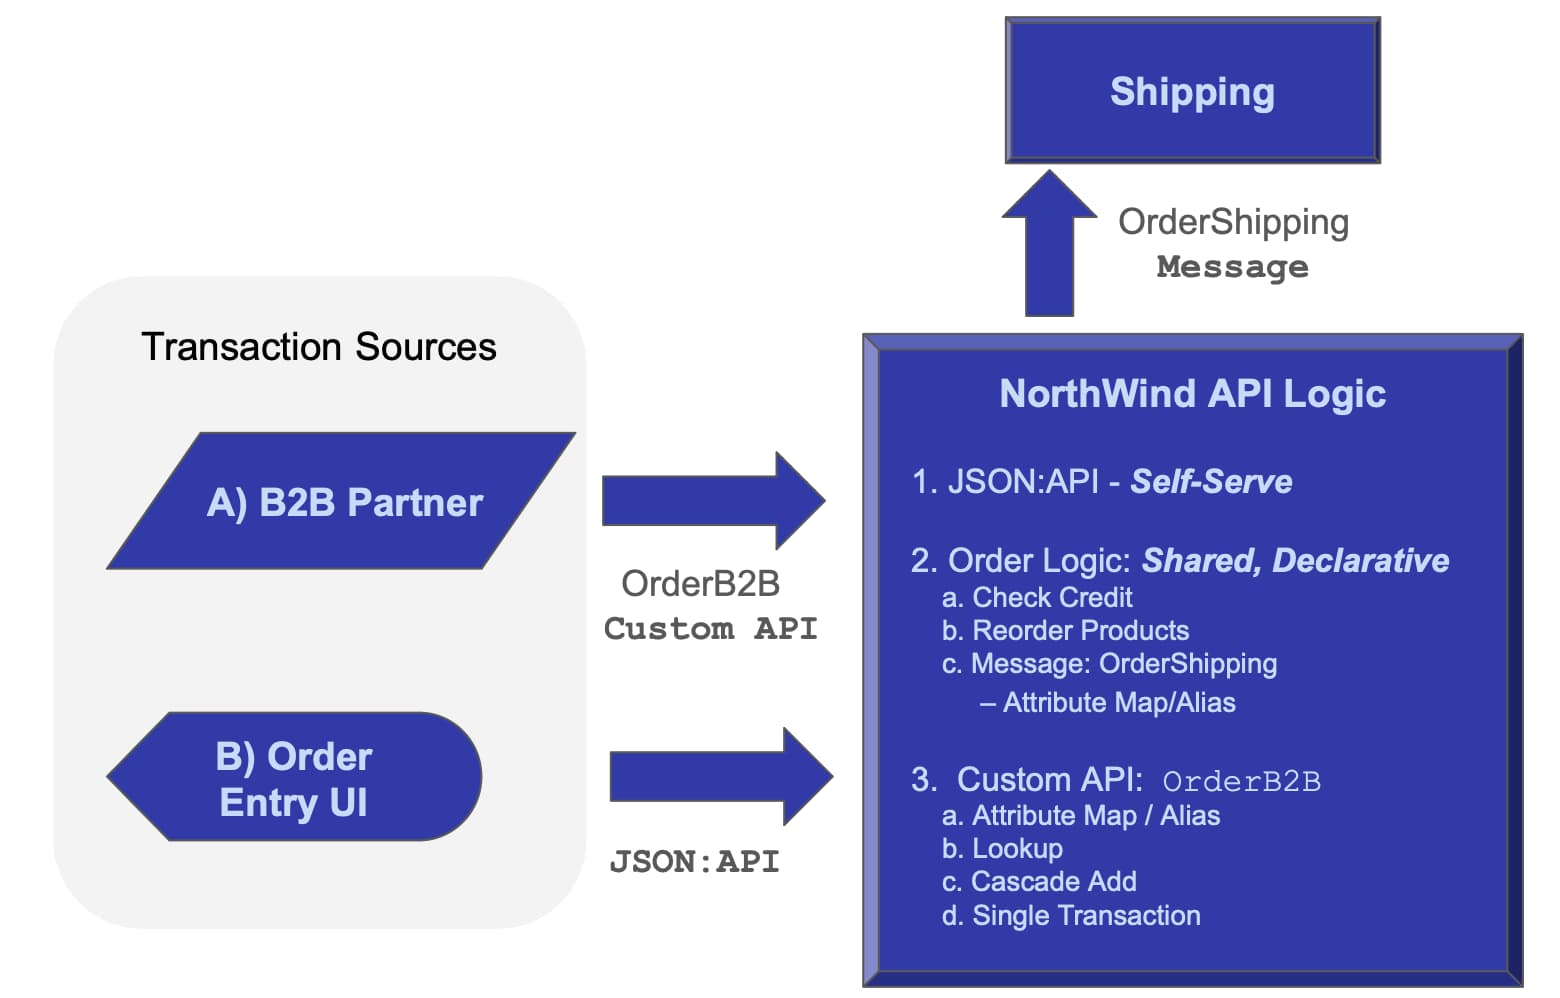
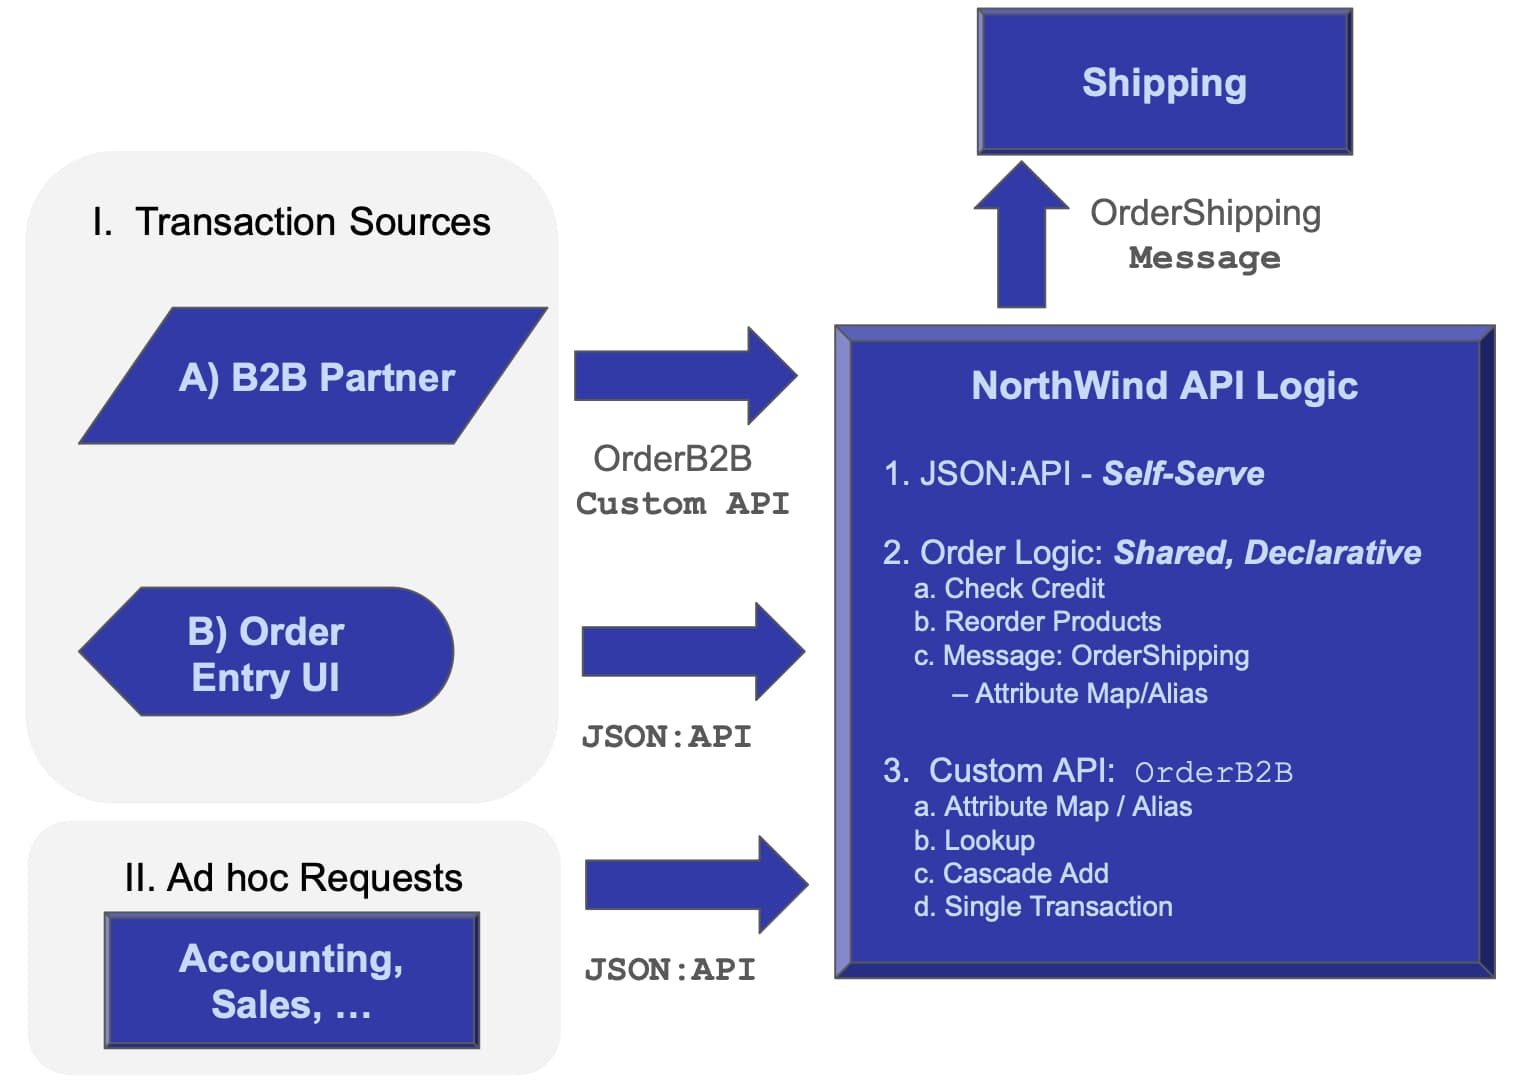
integration ad hoc requests

diff --git a/docs/Sample-Integration.md b/docs/Sample-Integration.md
@@ -9,14 +9,23 @@ There are 2 **transaction sources:**
 1. B2B partners
 2. Internal UI
 
+In addition, there are multiple **Ad Hoc Requests** for information (Sales, Accounting) that cannot be antipated in advance.
+
 The **Northwind API Logic Server** provides APIs and the underlying logic for both transaction sources:
-1. API - a self-serve API, here used by UI developers to build the Order Entry UI
-2. Order Logic: shared over both transaction sources, this logic
+
+1. **Self-serve APIs**, to support
+
+    1. UI developers to build the Order Entry UI
+    2. Ad hoc Rquests
+
+2. **Order Logic:** shared over both transaction sources, this logic
 
     1. Enforces database integrity (checks credit, reorders products)
     2. Provides application integration services to format an order to alert shipping with a Kafka message.  Unlike APIs, messages are lost if the receiving server (Shipping) is down
 
-The **Shipping API Logic Server** listens on kafka, and stores the message which updates <whatever> using logic
+3. A **Custom API**, to match an agreed-upon format for B2B partners
+
+The **Shipping API Logic Server** listens on kafka, and stores the message which updates <whatever> using logic.
 
 ![overview](https://github.com/ApiLogicServer/Docs/blob/main/docs/images/integration/overview.jpg?raw=true)
 
